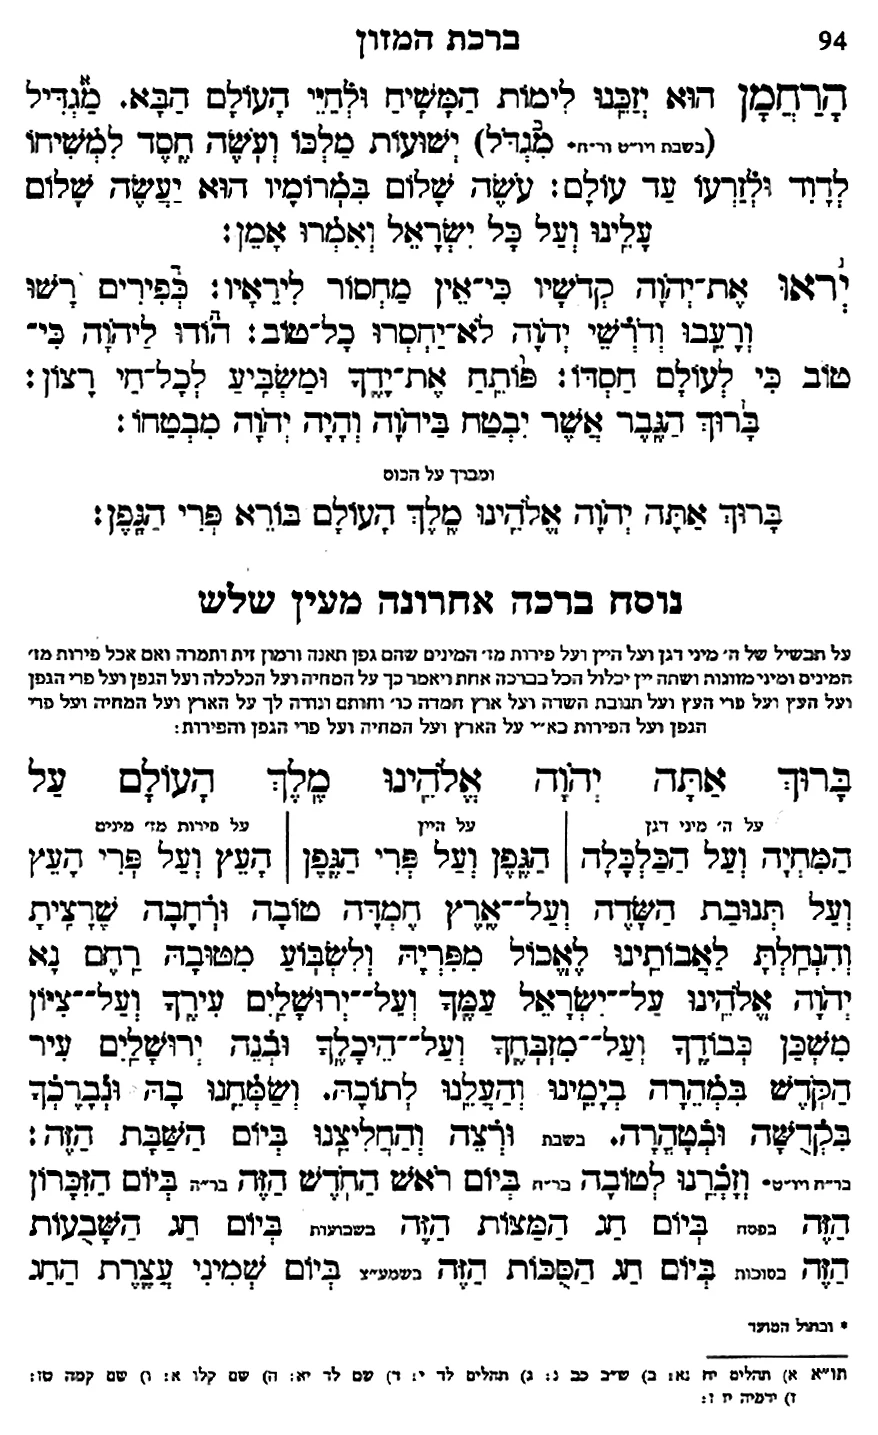
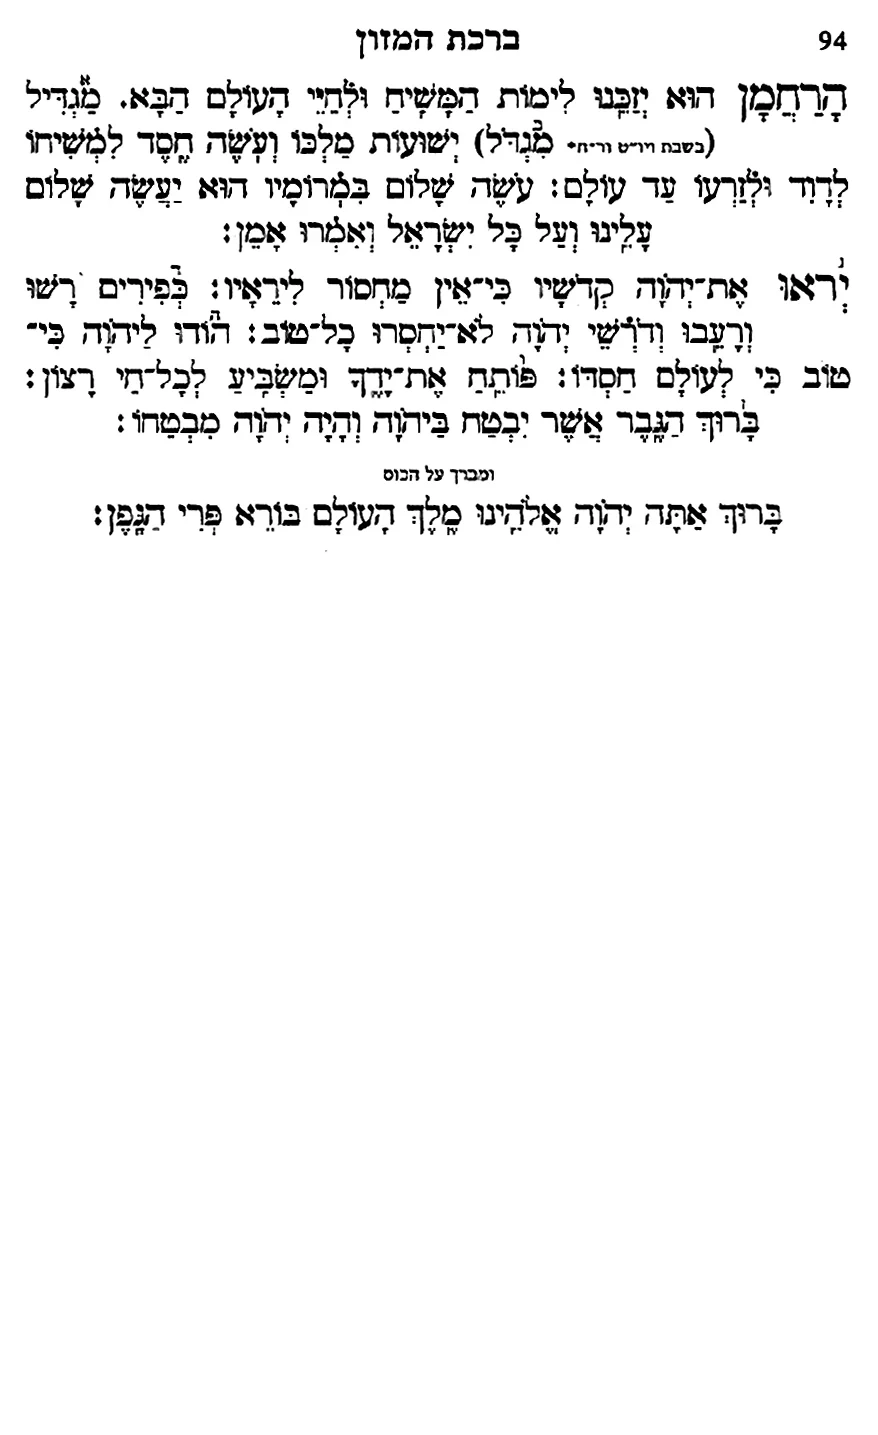
Sidour : « Nusach bra'kha a'harona méïn chalosh » sorti de Birkat Hamazone et mis dans un onglet à part, juste dessous (page 94 coupée au titre, page 95 entière)
Claude-Session: https://claude.ai/code/session_01FdG1ejwa9zv6qsbFpe5s7s

diff --git a/public/sidour/index.html b/public/sidour/index.html
@@ -121,13 +121,15 @@ button{font:inherit;color:inherit}
 
 <script>
 /* pages disponibles (numéro dans le livre) ; les pages 19 à 22 sont reprises au début de Min'ha */
+var par=function(id){return SECTIONS.filter(function(x){return x.id===id})[0]};
 var NUMS=[];for(var i=6;i<=95;i++)NUMS.push(i);
 NUMS=NUMS.concat([19,20,21,22]);for(i=96;i<=126;i++)NUMS.push(i);
 NUMS=NUMS.concat([241,242,243,244,245,246,247,248,249,277,278,279,341,342,343]);
-var DEB_MINHA=90,FIN_MINHA=93;
+var DEB_MINHA=91,FIN_MINHA=94;   /* +1 : la page 94b (suite de la page 94) s'intercale avant Min'ha */
 var SECTIONS=[
  {id:'chaharit',debut:6,fr:'Cha\u2019harit',he:'שחרית'},
  {id:'birkat-hamazone',debut:87,fr:'Birkat Hamazone',he:'ברכת המזון'},
+ {id:'meen-chalosh',debut:9999,fr:'Méïn Chalosh',he:'ברכה אחרונה'},
  {id:'minha',debut:96,fr:'Min\u2019ha',he:'מנחה'},
  {id:'arvit',debut:106,fr:'Arvit',he:'מעריב'},
  {id:'chema-hamita',debut:118,fr:'Kriat Chema al hamita',he:'קריאת שמע על המטה'},
@@ -139,10 +141,13 @@ var SECTIONS=[
 /* repères à l'intérieur de Cha'harit (affichés en haut du lecteur) */
 var SUBS=[[6,'Brakhot du matin'],[12,'Ma Tovou'],[27,'Hodou'],[41,'Ichtaba\u2019h'],[50,'Chemoné Esré'],[71,'Achré, Ouva Letsion'],[84,'Alénou']];
 function subDe(n){var r='';SUBS.forEach(function(x){if(x[0]<=n)r=x[1]});return r}
-var ALIAS={chaharit:'chaharit',brakhot:'chaharit',hodou:'chaharit',birkat:'birkat-hamazone',kriat:'chema-hamita',chema:'chema-hamita',sefirat:'omer'};
+var ALIAS={chaharit:'chaharit',brakhot:'chaharit',hodou:'chaharit',birkat:'birkat-hamazone',kriat:'chema-hamita',chema:'chema-hamita',sefirat:'omer',meen:'meen-chalosh',acharona:'meen-chalosh'};
 function sectionDe(n){var s=null;SECTIONS.forEach(function(x){if(x.debut<=n)s=x});return s}
-var PAGES=NUMS.map(function(n,i){var m=i>=DEB_MINHA&&i<=FIN_MINHA;return{n:n,sec:m?SECTIONS[2]:sectionDe(n),f:'/sidour/pages/page-'+String(n).padStart(3,'0')+'.webp?v=1'}});
-function indexDe(sec){return sec.id==='minha'?DEB_MINHA:PAGES.findIndex(function(p,i){return !(i>=DEB_MINHA&&i<=FIN_MINHA)&&p.n>=sec.debut})}
+var MC=par('meen-chalosh');
+var PAGES=NUMS.map(function(n,i){var m=i>=DEB_MINHA&&i<=FIN_MINHA;return{n:n,sec:m?par('minha'):sectionDe(n),f:'/sidour/pages/page-'+String(n).padStart(3,'0')+'.webp?v=2'}});
+/* « Nusach bra\u2019kha a\u2019harona méïn chalosh » : la page 94 est coupée au titre ; le bas de la page 94 et la page 95 forment un onglet à part, sous Birkat Hamazone */
+(function(){var i=PAGES.findIndex(function(p){return p.n===94});PAGES.splice(i+1,0,{n:94,sec:MC,f:'/sidour/pages/page-094b.webp?v=2'});PAGES[i+2].sec=MC})();
+function indexDe(sec){return sec.id==='minha'?DEB_MINHA:sec.id==='meen-chalosh'?PAGES.findIndex(function(p){return p.sec===sec}):PAGES.findIndex(function(p,i){return !(i>=DEB_MINHA&&i<=FIN_MINHA)&&p.n>=sec.debut})}
 var $=function(i){return document.getElementById(i)},scene=$('scene'),somm=$('somm'),cur=0,feuilles=[],imgs=[];
 var CLE='em-sidour-page';
 
@@ -179,9 +184,8 @@ function carte(s,cls){
   b.addEventListener('click',function(){ouvrirPriere(s)});
   return b;
 }
-var par=function(id){return SECTIONS.filter(function(x){return x.id===id})[0]};
 /* un seul carré Cha'harit, puis Min'ha, Arvit, et le reste dans l'ordre du livre */
-var ordre=['chaharit','minha','arvit','birkat-hamazone','chema-hamita','hallel','moussaf','avinou-malkenou','omer'];
+var ordre=['chaharit','minha','arvit','birkat-hamazone','meen-chalosh','chema-hamita','hallel','moussaf','avinou-malkenou','omer'];
 var g=document.createElement('div');g.className='grille';
 ordre.forEach(function(id){g.appendChild(carte(par(id),id==='chaharit'?'grand':''))});
 grille.appendChild(g);
